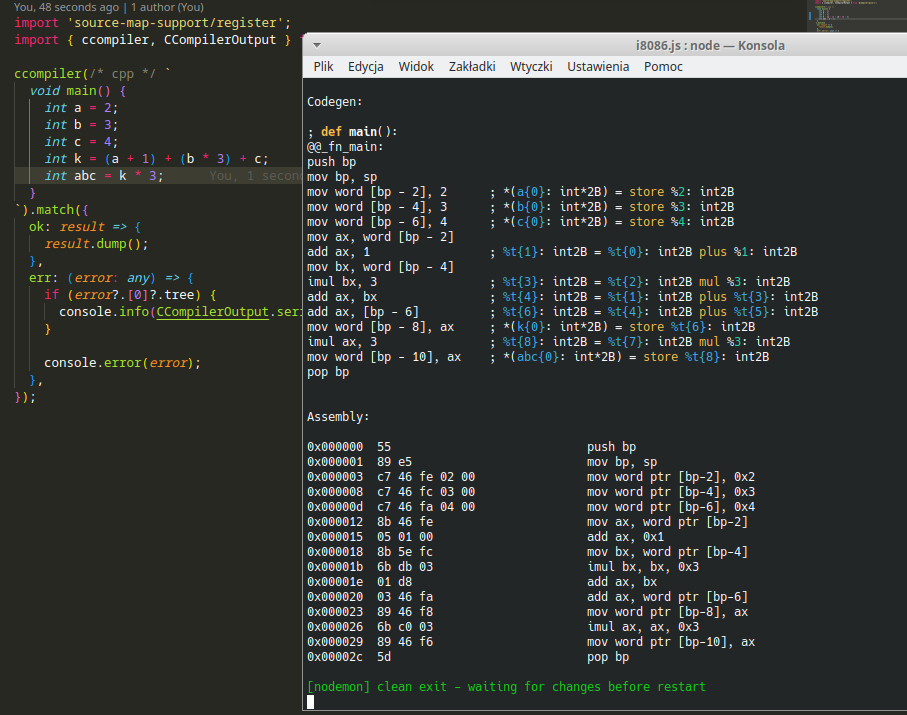
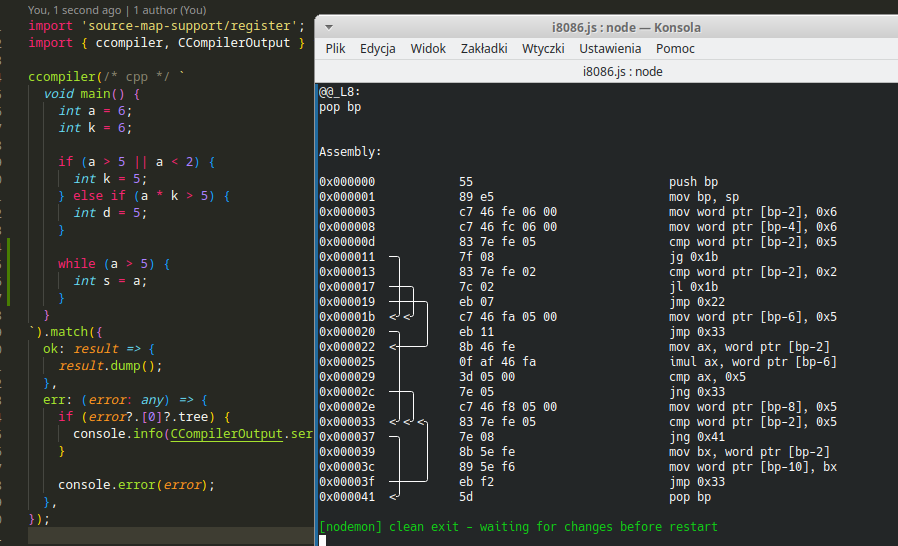
feat: add while loop support

Changed region(s): [[0.0, 0.0, 1.0, 1.0], [0.0624, 0.8718, 0.2494, 0.9029], [0.0312, 0.9029, 0.0624, 0.9652]]

diff --git a/src/cli.ts b/src/cli.ts
@@ -11,6 +11,10 @@ ccompiler(/* cpp */ `
     } else if (a * k > 5) {
       int d = 5;
     }
+
+    while (a > 5) {
+      int s = a;
+    }
   }
 `).match({
   ok: result => {
